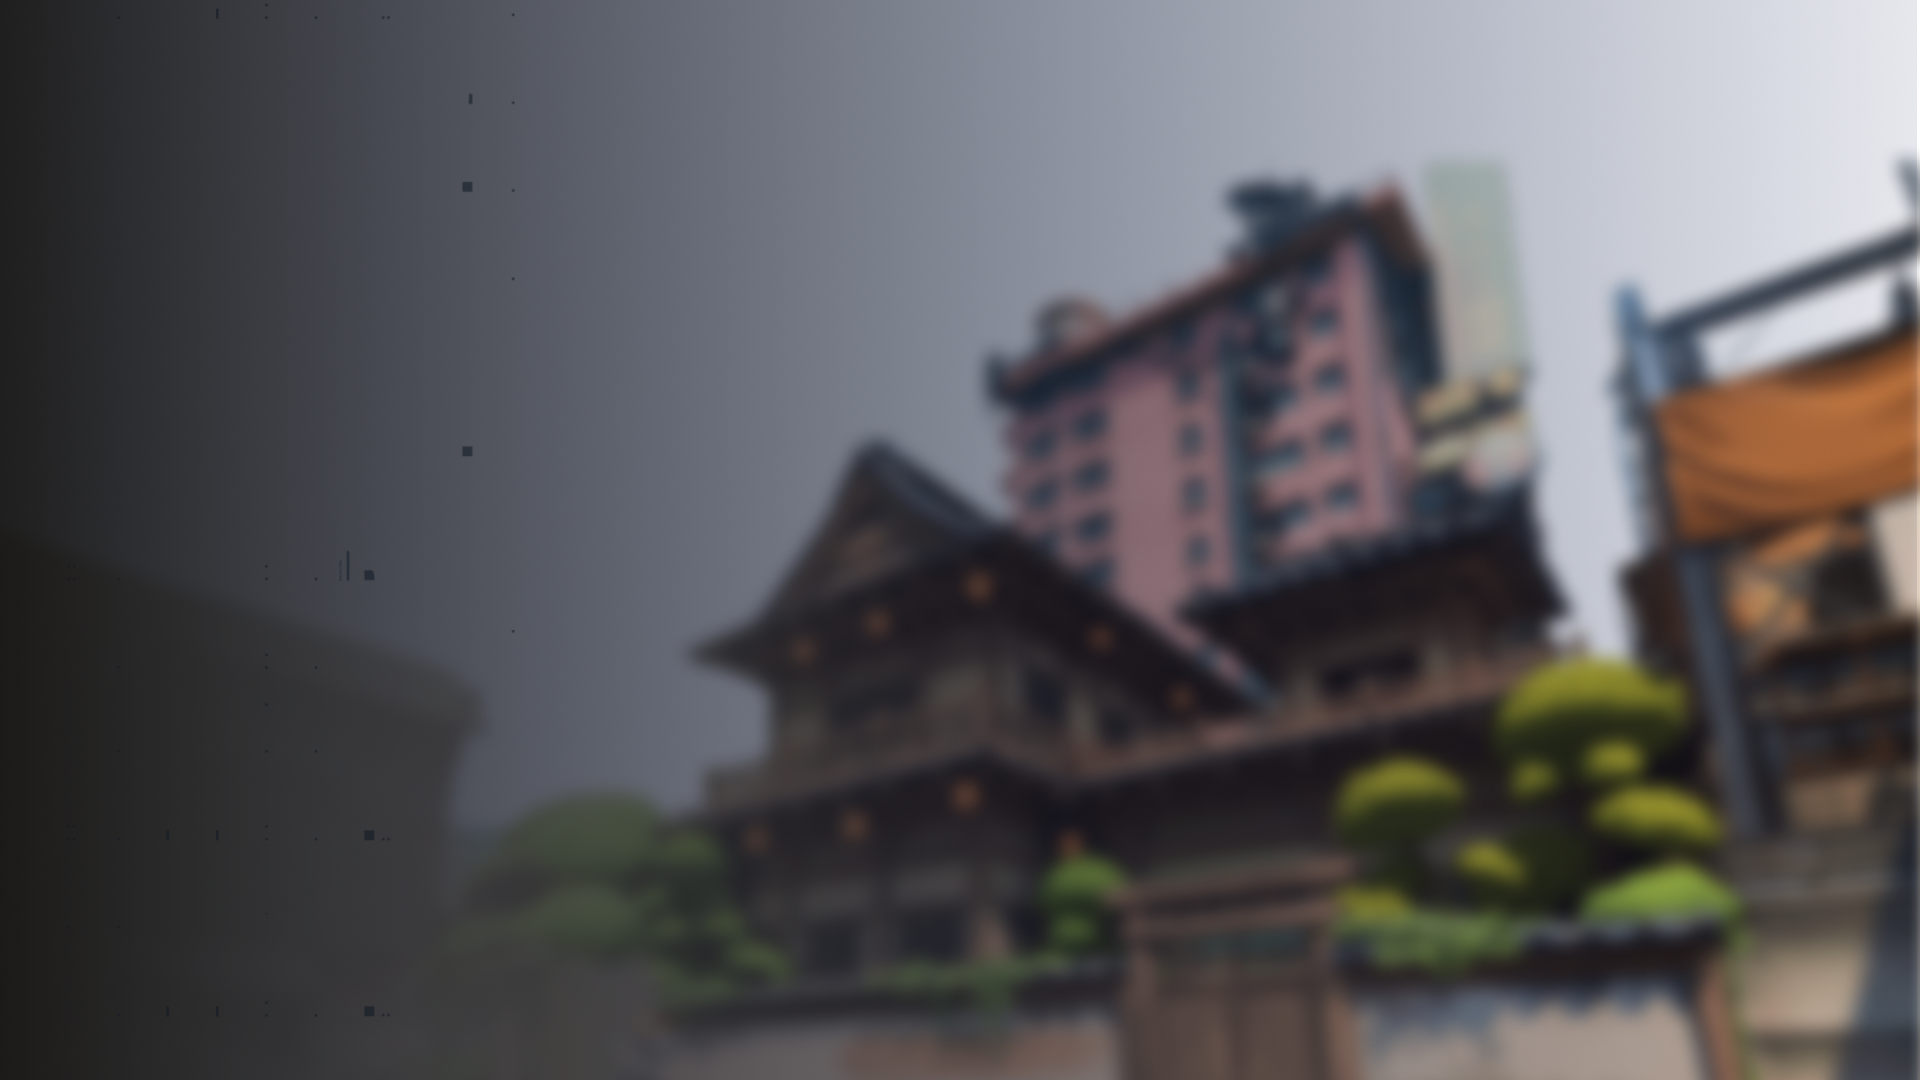
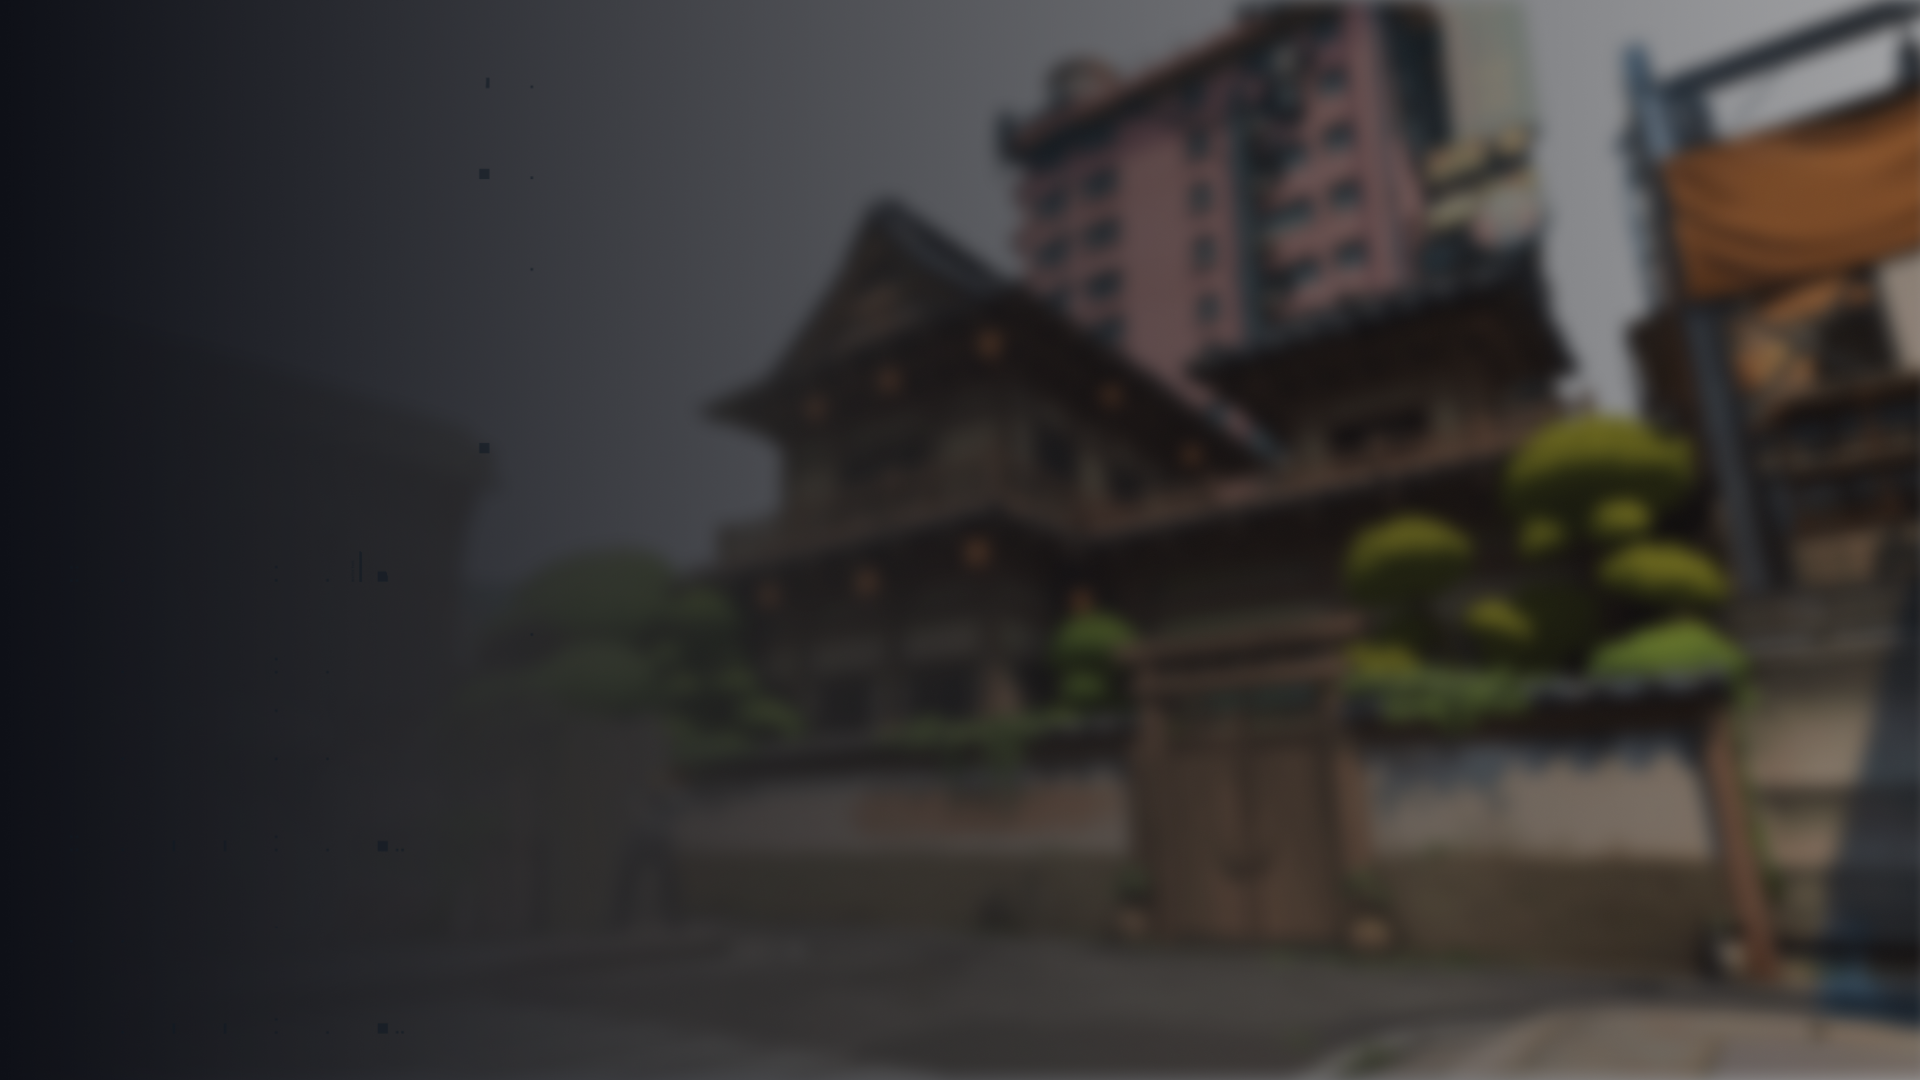
home page left

diff --git a/src/components/Home.js b/src/components/Home.js
@@ -1,12 +1,112 @@
-import React from 'react'
-import Navbar from './Navbar'
+import React from "react";
+import Navbar from "./Navbar";
+import backgroundImage from "../assets/images/home/background.png";
+import styled from "styled-components";
+import jettImage from "../assets/images/home/home-jett.png";
+
+const StyledSection = styled.section`
+  position: relative;
+  height: 100vh;
+  max-height: 1920px;
+  min-height: 49rem;
+  background-image: url(${backgroundImage});
+  background-position: center; /* Center the image */
+  background-repeat: no-repeat; /* Do not repeat the image */
+  background-size: cover; /* Resize the background image to cover the entire container */
+`;
+
+const StrokeSpan = styled.span`
+  font-size: 290px;
+  font-weight: 900;
+  -webkit-text-stroke: 4px #ffffff;
+  color: transparent;
+  margin: 2px;
+  opacity: 40%;
+`;
+const ManiacHeaderDiv = styled.div`
+  padding-top: 60px;
+  padding-left: 30px;
+`;
+
+const ManiacText = styled.div`
+  z-index: 4;
+  -webkit-touch-callout: none; /* iOS Safari */
+  -webkit-user-select: none; /* Safari */
+  -khtml-user-select: none; /* Konqueror HTML */
+  -moz-user-select: none; /* Old versions of Firefox */
+  -ms-user-select: none; /* Internet Explorer/Edge */
+  user-select: none;
+
+  &::after {
+      content:"";
+      display:block;
+      position:relative;
+      width:40%;
+      height:4px;
+      background-color:#FFF;
+      top:-10px;
+      left:3.85rem;
+      opacity:40%;
+  }
+`;
+
+const ImageJett = styled.div`
+  position: absolute;
+  bottom: 0;
+  right: 0;
+  z-index: 5;
+  & > img {
+    height:980px;
+    -webkit-touch-callout: none; /* iOS Safari */
+    -webkit-user-select: none; /* Safari */
+    -khtml-user-select: none; /* Konqueror HTML */
+    -moz-user-select: none; /* Old versions of Firefox */
+    -ms-user-select: none; /* Internet Explorer/Edge */
+    user-select: none;
+  }
+`;
+
+const BoostingWrapper = styled.div`
+font-size:100px;
+font-weight:900;
+color: #FFF;
+margin:0px 10px;
+`
 
 const Home = () => {
-    return (
-        <>
-        <Navbar/>
-        </>
-    )
-}
+  return (
+    <>
+      <Navbar />
 
-export default Home
+      <StyledSection>
+        <ManiacHeaderDiv>
+          {/* div for maniac text start */}
+          <ManiacText>
+            <StrokeSpan>M</StrokeSpan>
+            <StrokeSpan>A</StrokeSpan>
+            <StrokeSpan>N</StrokeSpan>
+            <StrokeSpan>I</StrokeSpan>
+            <StrokeSpan>A</StrokeSpan>
+            <StrokeSpan>C</StrokeSpan>
+            <StrokeSpan>'</StrokeSpan>
+            <StrokeSpan>S</StrokeSpan>
+          </ManiacText>
+          {/* div for maniac text end */}
+
+            <BoostingWrapper>
+                BOOSTING SERVICE
+            </BoostingWrapper>
+
+
+            {/* absolute jett picture start */}
+          <ImageJett>
+            <img src={jettImage} alt="Jett-Valorant" />
+          </ImageJett>
+           {/* absolute jett picture end */}
+        </ManiacHeaderDiv>
+      </StyledSection>
+    </>
+  );
+};
+
+export default Home;

diff --git a/src/components/Navbar.js b/src/components/Navbar.js
@@ -4,14 +4,14 @@ import backArrow from "../assets/images/home/Union.png"
 
 const NavbarWrapper = styled.div`
   height: 100px;
-  background-color: rgb(22, 20, 20);
   width: 100%;
   display: flex;
   justify-content: center;
   align-items: center;
-  position:relative;
+  position:absolute;
   top:0;
   left:0;
+  z-index:5;
 `;
 const NavHead = styled.nav`
   width: 739px;
@@ -41,14 +41,17 @@ justify-content:center;
 align-items:center;
 `
 
-const GoBackText = styled.span`
-font-size:16px;
-color:white;
-margin-left:5px;
-`
+// const GoBackText = styled.span`
+// font-size:16px;
+// color:white;
+// margin-left:5px;
+// `
 const Navbar = () => {
   return (
     <>
+    
+
+    
       <NavbarWrapper>
         <NavHead>
           <a href="/html/">HOME</a>
@@ -60,12 +63,12 @@ const Navbar = () => {
         <a href="/python/">CONTACT US</a>
         </NavHead>
         <BackButton>
-            <div>
+            {/* <div>
                 <img src={backArrow} alt="Back Arrow"></img>
-            </div>
-            <GoBackText>
+            </div> */}
+            {/* <GoBackText>
                 GO BACK
-            </GoBackText>
+            </GoBackText> */}
         </BackButton>
       </NavbarWrapper>
     </>

diff --git a/public/index.html b/public/index.html
@@ -40,4 +40,13 @@
       To create a production bundle, use `npm run build` or `yarn build`.
     -->
   </body>
+  <!-- The core Firebase JS SDK is always required and must be listed first -->
+  <script src="/__/firebase/8.3.0/firebase-app.js"></script>
+
+  <!-- TODO: Add SDKs for Firebase products that you want to use
+     https://firebase.google.com/docs/web/setup#available-libraries -->
+  <script src="/__/firebase/8.3.0/firebase-analytics.js"></script>
+
+  <!-- Initialize Firebase -->
+  <script src="/__/firebase/init.js"></script>
 </html>

diff --git a/src/index.css b/src/index.css
@@ -9,7 +9,7 @@ body {
   padding: 0;
   margin: 0;
   box-sizing: border-box;
-  background-color: rgb(22, 20, 20);
+  background-color: black;
 }
 
 code {
